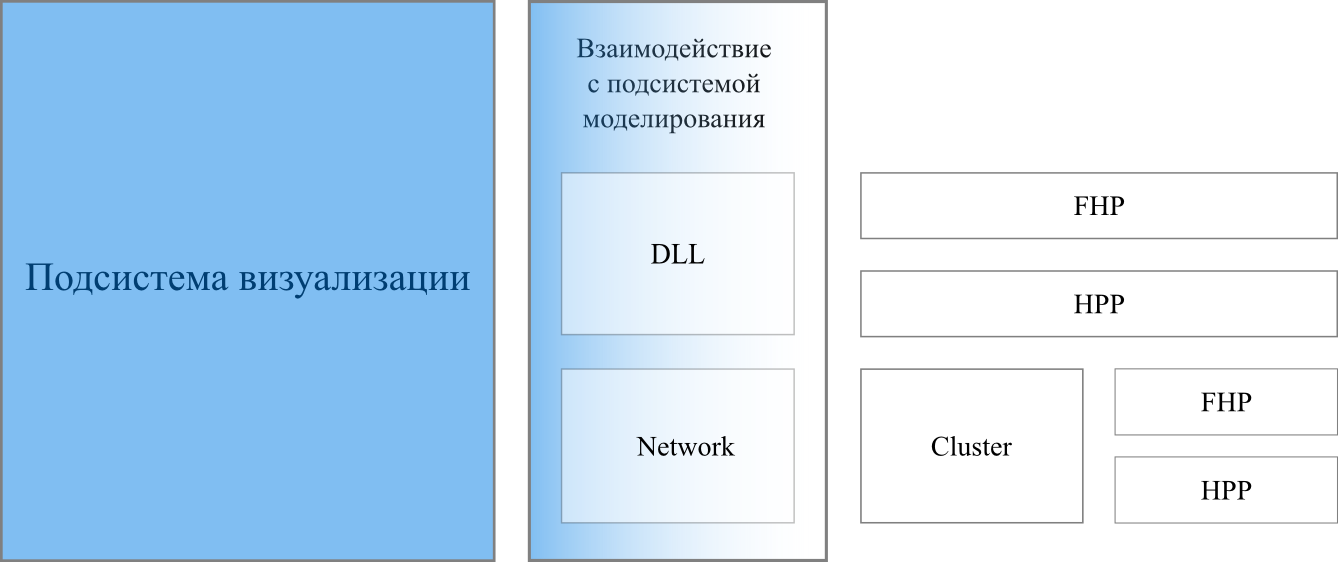
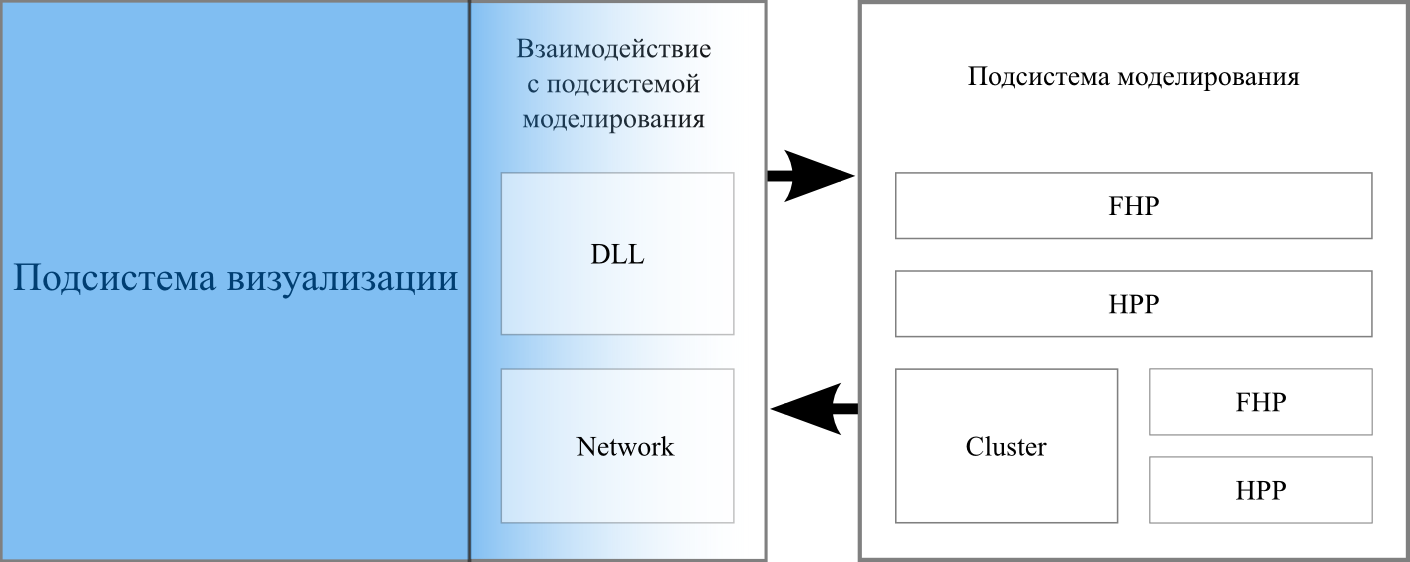
Update.

diff --git a/doc/text.tex b/doc/text.tex
@@ -11,7 +11,7 @@
 % Вставка картинок из директории images
 \usepackage[dvips]{graphicx}
 \graphicspath{{images/}}
-\usepackage[usenames, dvipsnames]{color} % цвет oO
+\usepackage[usenames, dvipsnames]{color} % цвет
 
 % Набор математических пакетов
 \usepackage{amsmath}
@@ -167,28 +167,31 @@
     \end{subsubsection}
         
     \begin{subsubsection}{Дружественность интерфейса}
-        Дружественность интерфейса можно разделить 
-        (интерфейса пользователя) – графический должен быть простым и интуитивно-понятным. (и несложным?)
-        (программного интерфейса) –  (интерфейс должен требовать реализацию (почти) минимального необходимого набора методов)
+        Интерфейс системы можно разделить на интерфейс пользователя и программный интерфейс.
+        
+        Дружественность пользовательского интерфейса заключается в наличии интуитивно-понятного и комфортного взаимодействия системы с пользователем. Требование является необходиым для любой отчуждаемой от разработчиков программы, в которой присутствует функция взимодействия с пользователем.
+        
+        Дружественность программного интерфейса относится к разработчикам системы (как и к тем, кто изначально разрабывает систему, так и к пользователям, которые будут расширять систему за счёт встраивания своих модулей) и означает упрощение разработки системы: интерфейсы, дающие возможности для расширения системы, должны требовать реализацию только минимального необходимого набора методов.
     \end{subsubsection}
 
 \end{subsection}
 
 \subsection{Обработка больших объёмов данных}
-Под возможностью обработки больших объёмов данных понимается способность системы визуализировать объекты данных, размер которых превышает размер оперативной памяти компьютера. \textit{Особенность моделей физических являений состоит в том, что при большем объёме данных}... 
-1. Многие явление незаметны на моделях маленького размера (например, вихри)
-2. Как правило при увеличиении размера, более сильном дроблении, получается более точный результат, качество моделирование повышается
+Под возможностью обработки больших объёмов данных понимается способность системы визуализировать объекты данных, размер которых превышают размер оперативной памяти компьютера.
 
-* Гибкость -- слои и сборка из слоёв.
-* Интерактивность (часть пользовательского интерфейса, часть адекватности)
-* Модульность -- система должна быть разбита на части, каждая из котороых представляет собой ?, и реализацию каждой части возможно будет имезнить не внося изменения в остальные. (разные задачи, разнообразие визуализируемых данных, разные средства визуализации)
-
+Требование к поддержки больших объёмов данных обусловлено особенностью моделей физических являений:
+\begin{enumerate}
+    \item Многие явление могут быть незаметны на моделях маленького размера (например, \textit{вихри}).
+    
+    \item Как правило, при увеличиении размера объекта данных, при более сильном дроблении, качество моделирование повышается и результат получается более точным.
+\end{enumerate}
 
 
 \begin{section}{Обзор существующих систем}
 
-обзор систем по одной форме (gnuplot, octave, ...).
-* вывод, что ни одна система не соответствует в полной мере требованиям.
+Имитационное моделирование, а значит и необходимость в средствах визуализации, существует уже достаточно давно, потому следующим этапом после формирования требований был обзор уже существующих систем.
+
+Далее приведён обзор нескольких, \textit{уточнить каких}, систем. Полный список обозреваемых систем и их соответствие требованиям привдён в Приложении А. 
 
 \begin{subsection}{Mirek's Celebration}
     Система моделирования 1D и 2D клеточно-автоматных моделей.
@@ -239,7 +242,7 @@
             \begin{tabular}{|p{0.35\linewidth}|p{0.05\linewidth}|p{0.5\linewidth}|} \hline
                 Адекватность пред. области & -- & Дифференциальные уравнения решаются классическими методами. \\ \hline
                 Расширяемость              & + & Возможность встраивания пользовательских функций. \\ \hline
-                Интероперабельность        & ?? & \\ \hline
+                Интероперабельность        & + & \\ \hline
                 Платформонезависимость     & ?? & \\ \hline
                 Дружественный интерфейс    & + & \\ \hline
                 Большие объёмы данных      & ?? & \\ \hline
@@ -247,6 +250,16 @@
         \end{center}
     \end{table}
 \end{subsection}
+
+\subsection{Выводы}
+
+Таким образом, ни одна из рассмотренных систем в полной мере не удовлетворяет всем предъявленным к ней требованиям и было решено создать собственную реализацию системы визуализации. На рисунке~\ref{systems-simulus} графически изображено \textit{...}
+
+\begin{figure}[h]
+    \center{\includegraphics[width=.5\linewidth]{systems-simulus}}
+    \caption{Существующие системы визуализации}
+    \label{ris:systems-simulus}
+\end{figure}
 
 \end{section}
 
@@ -293,8 +306,8 @@
 
 \begin{subsection}{Модуль поддержки графических библиотек}
     \begin{figure}[h]
-        \center{\includegraphics[width=1\linewidth]{architecture-graphics}}
-        \caption{Модуль поддержки графических библиотек TODO resize image}
+        \center{\includegraphics[width=.6\linewidth]{architecture-graphics}}
+        \caption{Модуль поддержки графических библиотек}
         \label{ris:architecture-graphics}
     \end{figure}
     
@@ -313,6 +326,12 @@
 \end{subsection}
 
 \begin{subsection}{Модуль поддержки режимов отображения}
+    \begin{figure}[h]
+        \center{\includegraphics[width=.8\linewidth]{architecture-render}}
+        \caption{Модуль поддержки графических библиотек}
+        \label{ris:architecture-render}
+    \end{figure}
+    
     В разделе \ref{sec:requirements-adequacy} одним из требований, предъявлемых к системе, является предоставление исследователю как возможность наблюдать за изменениями отдельных различных характеристик, так и возможность увидеть целостную картину. Данный модуль реализует поддержку различных режимов отобржения и предоставляет возможности для встраивания новых режимов.
 
     Единственная функция, которую реализует модуль поддержки режимов отображения, это отображение части или всего объекта данных в двухмерное или трёхмерное изображение. При отрисовывании изображения данный модуль использует интерфейс, предоставляемый модулем поддержки графических библиотек, а работа с объектом данных модели происходит через модуль взаимодействия с подсистемой моделирования. 
@@ -344,6 +363,9 @@
 В планах реализация механизма удалённого исполнения модельных программ, запуск счёта модели на кластере ССКЦ.
 
 \section*{Приложение А. Сравнение систем визуализации}
+\begin{center}
+    (Обязательное)
+\end{center}
 \addcontentsline{toc}{section}{Приложение А. Сравнение систем визуализации}
 
 \begin{table}[h]
@@ -529,12 +551,6 @@ public:
 
 
 Начало каждой главы — краткая нотация к её содержанию.
-
-+ Сравнительная характеристика систем
-? Взаимодействие с подсистемой моделирования
-? Поддержка различных режимов отображения
-+ Пользователский интерфейс - пример работы с моделью
-+ Литература
 
 В требованиях в перечислениях очень кратко описать, что будет идти дальше.
 Разбить большие предложения\cite{TestBook}.
